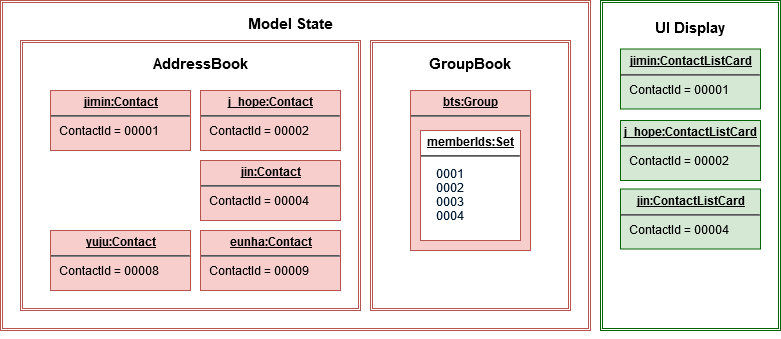
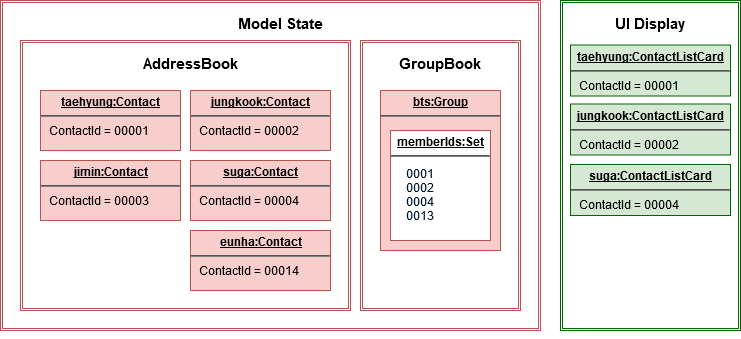
Rebuild pages at 84121db76be90b4defa0b4f7a37c824c8b580137

diff --git a/DeveloperGuide.html b/DeveloperGuide.html
@@ -735,10 +735,11 @@ Additionally, <code>GroupManager</code> extends Tagline with the following opera
 </div>
 <div class="paragraph">
 <p>Given below is an example usage scenario on how a typical lifecycle of a <code>Group</code> behaves at each step.
-With emphasis on showing the effects of <code>FindGroupCommand</code> as an example of a <code>GroupCommand</code>.</p>
+With emphasis on showing the effects of <code>DeleteCommand</code> as an example of a command from <code>ContactCommand</code>
+would interact with <code>GroupCommand</code> and <code>GroupModel</code> state.</p>
 </div>
 <div class="paragraph">
-<p>Step 1. The user initially has several contacts in <code>AddressBook</code>.</p>
+<p>Step 1. The user initially has several contacts in <code>AddressBook</code>.<br></p>
 </div>
 <div class="imageblock">
 <div class="content">
@@ -747,8 +748,13 @@ With emphasis on showing the effects of <code>FindGroupCommand</code> as an exam
 <div class="title">Figure 18. Simplified state of relevant Model components initially</div>
 </div>
 <div class="paragraph">
+<p>The <code>AddressBook</code> model state contains all the <code>Contact</code> class that exists in the App.
+ Since no <code>Group</code> has been created yet, <code>GroupBook</code> model state is currently empty.
+ All of the contacts found in <code>AddressBook</code> are displayed on the <code>UI</code> by default.</p>
+</div>
+<div class="paragraph">
 <p>Step 2. Wishing to better organize her contacts into groups, the user executes <code>group create BTS</code> calling
- <code>CreateGroupCommand</code>. to create a new <code>Group</code> instance with no members.</p>
+ <code>CreateGroupCommand</code>. to create a new <code>Group</code> instance with no members.<br></p>
 </div>
 <div class="imageblock">
 <div class="content">
@@ -757,9 +763,16 @@ With emphasis on showing the effects of <code>FindGroupCommand</code> as an exam
 <div class="title">Figure 19. State after Group "BTS" is created</div>
 </div>
 <div class="paragraph">
-<p>Step 3. The user then executes <code>group add BTS --i 00001 --i 00002 --i 0003 --i 0004</code>
+<p>The <code>GroupBook</code> model state now contains a <code>Group</code> instance for "BTS" with no members
+ recorded as memberIds.
+ A group with no members would not prompt the <code>UI</code> to display the contacts in the group
+ while a group with members in it would cause <code>UI</code> to display all the contacts belonging
+ to that group.</p>
+</div>
+<div class="paragraph">
+<p>Step 3. The user then executes <code>group add BTS --i 00001 --i 00002 --i 0013 --i 0004</code>
  calling the <code>addMembersToGroupCommand</code> to add several contacts to the group. Only the String
- representation of the <code>ContactId</code> will be stored in the <code>Group</code>.</p>
+ representation of the <code>ContactId</code> will be stored in the <code>Group</code>.<br></p>
 </div>
 <div class="imageblock">
 <div class="content">
@@ -768,20 +781,33 @@ With emphasis on showing the effects of <code>FindGroupCommand</code> as an exam
 <div class="title">Figure 20. State after four contacts are added into Group "BTS"</div>
 </div>
 <div class="paragraph">
-<p>Step 4. The user may wish to remove some contacts calling <code>contact delete --i 0003</code>
- which then deletes the <code>Contact</code> with contactId of 3. However, this does not remove the contact&#8217;s id from
- the memberId attribute in the <code>Group</code> the contact was in. This step does not involve <code>GroupModel</code> in any way.</p>
+<p><code>Group</code> "BTS" now has members in it and the <code>UI</code> would display all the contacts found in the
+ group.</p>
+</div>
+<div class="paragraph">
+<p>Step 4. The user realizes she has made a mistake adding a wrong contact and in a fit of rage
+ chooses to delete the contact instead of merely removing from the Group.
+ Executing <code>contact delete --i 00013</code>
+ which then deletes the <code>Contact</code> with contactId of 00013.
+ However, this does not remove the contact&#8217;s id from
+ the memberId attribute in the <code>Group</code> the contact was in. This step does not involve <code>GroupModel</code> in any way.<br></p>
 </div>
 <div class="imageblock">
 <div class="content">
 <img src="images/GroupContactsState3.png" alt="GroupContactsState3">
 </div>
-<div class="title">Figure 21. State after contact with contactId = 00003 is deleted</div>
+<div class="title">Figure 21. State after contact with contactId = 00013 is deleted</div>
 </div>
 <div class="paragraph">
-<p>Step 5. The user executes <code>group find BTS</code> to call up all members on the <code>Group</code> and view the <code>Contact</code> profiles.
- This calls <code>FindGroupCommand</code> which then updates the <code>Group</code> ensuring that all memberIds correspond to an existing
- <code>ContactId</code> found in <code>AddressBook</code>. The contacts of the group are also displayed to the user.</p>
+<p>Deleting a <code>Contact</code> would cause it to be removed from <code>AddressBook</code> model state and the <code>Contact</code>
+ no longer exists. While the <code>UI</code> display no longer shows contact of 00013, it is still recorded as a member in
+ <code>GroupBook</code> model state. The updating of <code>GroupBook</code> model state is deferred.</p>
+</div>
+<div class="paragraph">
+<p>Step 5. The user then executes <code>group add BTS --i 00003</code> to add the correct contact as a member on the <code>Group</code>
+ and view the <code>Contact</code> profiles.
+ This calls <code>AddMemberToGroupCommand</code> which then updates the <code>Group</code> ensuring that all memberIds correspond to an existing
+ <code>ContactId</code> found in <code>AddressBook</code>. The contacts of the group are also displayed to the user. <br></p>
 </div>
 <div class="imageblock">
 <div class="content">
@@ -790,8 +816,13 @@ With emphasis on showing the effects of <code>FindGroupCommand</code> as an exam
 <div class="title">Figure 22. State after user views contacts of Group "BTS"</div>
 </div>
 <div class="paragraph">
+<p>Here, the <code>GroupBook</code> model state is updated and memberId of 00013 from the previous step is removed while <code>Contact</code>
+ with contactId of 00003 is added into the <code>Group</code>. This change is also reflected in the <code>UI</code>.
+Now all is as it should be in <code>Group</code> "BTS".<br></p>
+</div>
+<div class="paragraph">
 <p>The following sequence diagram summarizes what happens when a user executes a <code>FindGroupCommand</code> which
- which updates the <code>Group</code>:</p>
+ which updates the <code>Group</code> similar to how <code>AddMemberToGroupCommand</code> does in the above example:</p>
 </div>
 <div class="imageblock">
 <div class="content">
@@ -1844,4 +1875,4 @@ Expected: Similar to previous.</p>
 </div>
 </div>
 </div>
-</div></div><div id="footer"><div class="container"><div id="footer-text">Last updated 2019-10-24 02:58:03 UTC</div></div></div></body></html>
+</div></div><div id="footer"><div class="container"><div id="footer-text">Last updated 2019-10-24 13:49:29 UTC</div></div></div></body></html>

diff --git a/ContactUs.html b/ContactUs.html
@@ -6,4 +6,4 @@
 <p><strong>Bug reports, Suggestions</strong> : Post in our <a href="https://github.com/AY1920S1-CS2103T-F12-3/main/issues">issue tracker</a> if you noticed bugs or have suggestions on how to improve.</p>
 </li>
 </ul>
-</div></div><div id="footer"><div class="container"><div id="footer-text">Last updated 2019-10-24 02:58:03 UTC</div></div></div></body></html>
+</div></div><div id="footer"><div class="container"><div id="footer-text">Last updated 2019-10-24 13:49:29 UTC</div></div></div></body></html>

diff --git a/tutorials/RemovingFields.html b/tutorials/RemovingFields.html
@@ -175,4 +175,4 @@ While keeping the <code>address</code> field in the json files does not cause th
 <p>You can go through each individual <code>json</code> file and manually remove the <code>address</code> field.</p>
 </div>
 </div>
-</div></div><div id="footer"><div class="container"><div id="footer-text">Last updated 2019-10-24 02:58:03 UTC</div></div></div></body></html>
+</div></div><div id="footer"><div class="container"><div id="footer-text">Last updated 2019-10-24 13:49:29 UTC</div></div></div></body></html>

diff --git a/Testing.html b/Testing.html
@@ -90,4 +90,4 @@ e.g. <code>seedu.address.logic.LogicManagerTest</code></p>
 <div class="title">Figure 1. <code>Accessibility</code> permission is granted to <code>IntelliJ IDEA</code></div>
 </div>
 </div>
-</div></div><div id="footer"><div class="container"><div id="footer-text">Last updated 2019-10-24 02:58:03 UTC</div></div></div></body></html>
+</div></div><div id="footer"><div class="container"><div id="footer-text">Last updated 2019-10-24 13:49:29 UTC</div></div></div></body></html>

diff --git a/tutorials/AddRemark.html b/tutorials/AddRemark.html
@@ -616,4 +616,4 @@ In this case, <code>CommandTestUtil#assertCommandSuccess</code> is the best fit 
 <p>This concludes the tutorial for adding a new <code>Command</code> to AddressBook.</p>
 </div>
 </div>
-</div></div><div id="footer"><div class="container"><div id="footer-text">Last updated 2019-10-24 02:58:03 UTC</div></div></div></body></html>
+</div></div><div id="footer"><div class="container"><div id="footer-text">Last updated 2019-10-24 13:49:29 UTC</div></div></div></body></html>

diff --git a/AboutUs.html b/AboutUs.html
@@ -154,4 +154,4 @@ We are a team based in the <a href="http://www.comp.nus.edu.sg">School of Comput
 </div>
 </div>
 </div>
-</div></div><div id="footer"><div class="container"><div id="footer-text">Last updated 2019-10-24 02:58:03 UTC</div></div></div></body></html>
+</div></div><div id="footer"><div class="container"><div id="footer-text">Last updated 2019-10-24 13:49:29 UTC</div></div></div></body></html>

diff --git a/LearningOutcomes.html b/LearningOutcomes.html
@@ -474,4 +474,4 @@ of storages, but different number of storages (e.g. save to both a text file and
 </div>
 </div>
 </div>
-</div></div><div id="footer"><div class="container"><div id="footer-text">Last updated 2019-10-24 02:58:03 UTC</div></div></div></body></html>
+</div></div><div id="footer"><div class="container"><div id="footer-text">Last updated 2019-10-24 13:49:29 UTC</div></div></div></body></html>

diff --git a/SettingUp.html b/SettingUp.html
@@ -180,4 +180,4 @@ Having both Travis and AppVeyor ensures your App works on both Unix-based platfo
 </div>
 </div>
 </div>
-</div></div><div id="footer"><div class="container"><div id="footer-text">Last updated 2019-10-24 02:58:03 UTC</div></div></div></body></html>
+</div></div><div id="footer"><div class="container"><div id="footer-text">Last updated 2019-10-24 13:49:29 UTC</div></div></div></body></html>

diff --git a/UsingCoveralls.html b/UsingCoveralls.html
@@ -111,4 +111,4 @@ If you have not set up Travis CI, see <a href="UsingTravis.html">UsingTravis.ado
 </ol>
 </div>
 </div>
-</div></div><div id="footer"><div class="container"><div id="footer-text">Last updated 2019-10-24 02:58:03 UTC</div></div></div></body></html>
+</div></div><div id="footer"><div class="container"><div id="footer-text">Last updated 2019-10-24 13:49:29 UTC</div></div></div></body></html>

diff --git a/UsingGradle.html b/UsingGradle.html
@@ -228,4 +228,4 @@ See <code>build.gradle</code> &#8594; <code>allprojects</code> &#8594; <code>dep
 </ul>
 </div>
 </div>
-</div></div><div id="footer"><div class="container"><div id="footer-text">Last updated 2019-10-24 02:58:03 UTC</div></div></div></body></html>
+</div></div><div id="footer"><div class="container"><div id="footer-text">Last updated 2019-10-24 13:49:29 UTC</div></div></div></body></html>

diff --git a/UsingNetlify.html b/UsingNetlify.html
@@ -138,4 +138,4 @@ The publish directory is the directory in which the built HTML documentation res
 </ol>
 </div>
 </div>
-</div></div><div id="footer"><div class="container"><div id="footer-text">Last updated 2019-10-24 02:58:03 UTC</div></div></div></body></html>
+</div></div><div id="footer"><div class="container"><div id="footer-text">Last updated 2019-10-24 13:49:29 UTC</div></div></div></body></html>

diff --git a/index.html b/index.html
@@ -73,4 +73,4 @@ Want a CLI note-taking app befitting of the techie that you are?</p>
 <div class="sectionbody">
 
 </div>
-</div></div><div id="footer"><div class="container"><div id="footer-text">Last updated 2019-10-24 02:58:03 UTC</div></div></div></body></html>
+</div></div><div id="footer"><div class="container"><div id="footer-text">Last updated 2019-10-24 13:49:29 UTC</div></div></div></body></html>
